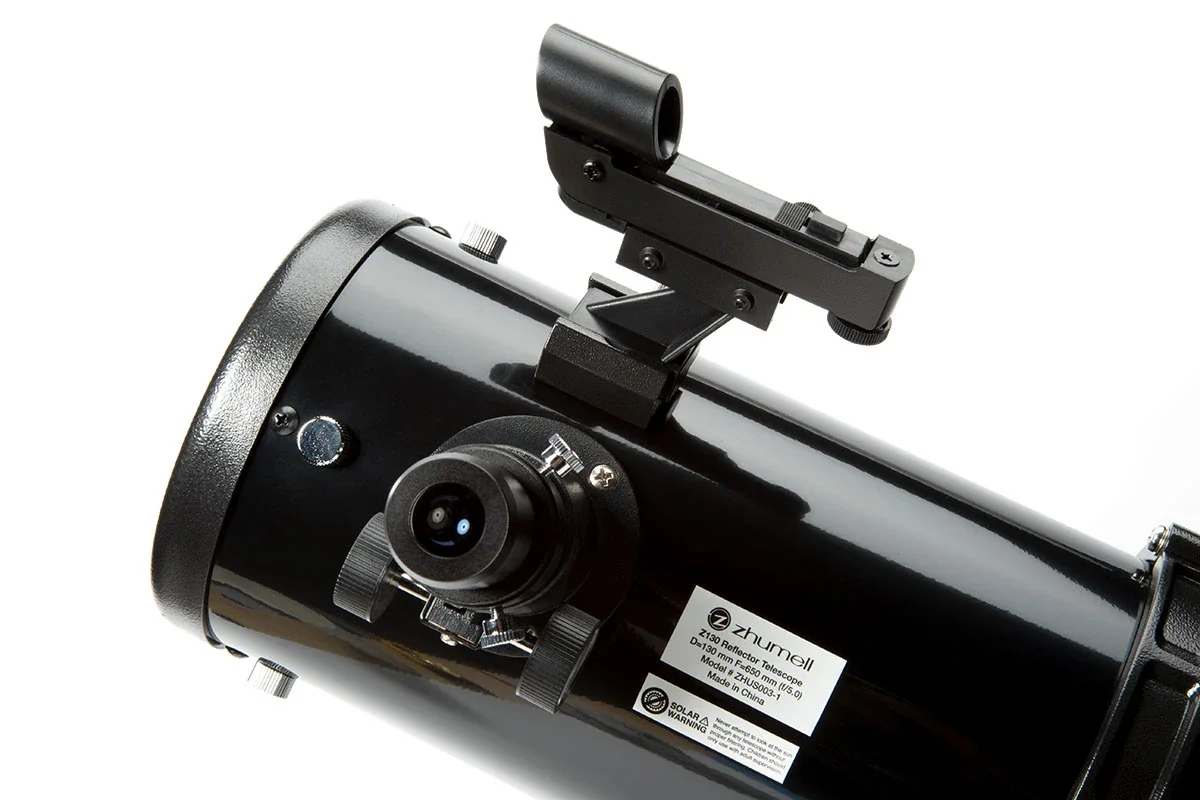
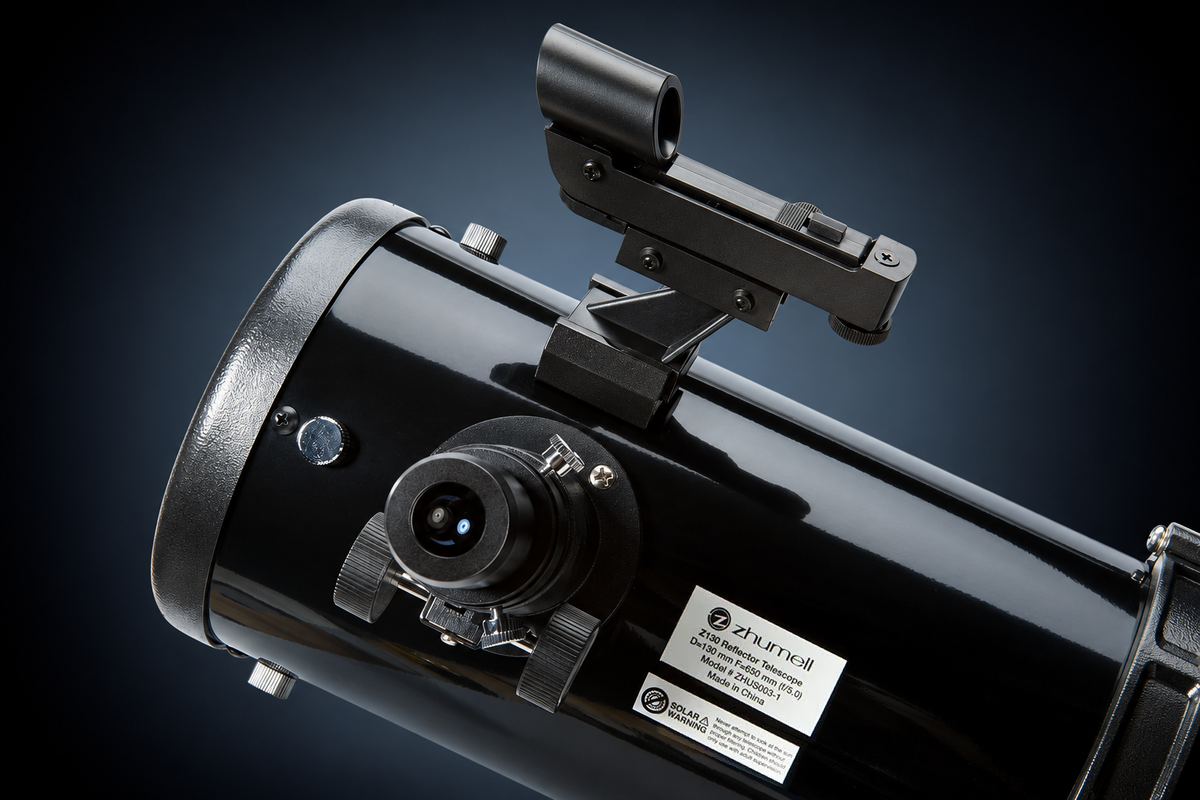
Re-frame review cover images and zoom framed covers in the review header
Covers re-framed as 1600 x 1600 squares are detected at build time and shown
zoomed in so the telescope fills the photo area. Also gives several reviews
their own thumbnails and switches the Zhumell Z130 review to the dark theme.

diff --git a/src/styles/reviewHero.css b/src/styles/reviewHero.css
@@ -16,17 +16,17 @@ body:has(.review-hero) {
   position: relative;
   z-index: 5; /* keeps the price menu above the article when it drops below the band */
   isolation: isolate;
-  /* clip sideways only: the photo's glow must not widen the page, but the
-     price menu still needs to drop below the band */
+  /* clip sideways only: nothing in the band may widen the page, but the
+     price menu still needs to drop below it */
   overflow-x: clip;
   width: 100vw;
   margin-left: calc(50% - 50vw);
   margin-right: calc(50% - 50vw);
   margin-bottom: 2.5rem;
-  min-height: min(82vh, 780px);
+  min-height: min(90vh, 920px);
   padding: clamp(2rem, 6vh, 4.5rem) clamp(1.25rem, 6vw, 6rem);
   display: grid;
-  grid-template-columns: minmax(0, 1fr) minmax(0, 1.15fr);
+  grid-template-columns: minmax(0, 1fr) minmax(0, 1.5fr);
   align-items: center;
   gap: clamp(1.5rem, 4vw, 4rem);
   background: var(--hero-page);
@@ -65,47 +65,22 @@ body:has(.review-hero) {
   min-width: 0;
 }
 
-/* A blurred, enlarged copy right behind the photo, so the photo's own edge
-   colours carry on outward and its faded edges never show as a box. */
-.review-hero-glow {
-  position: absolute;
-  left: 50%;
-  top: 50%;
-  width: auto;
-  height: auto;
-  max-width: 100%;
-  max-height: min(72vh, 660px);
-  transform: translate(-50%, -50%) scale(1.45);
-  filter: blur(42px) saturate(1.1);
-  opacity: 0.95;
-  pointer-events: none;
-}
 
-/* The box matches the rendered photo, so the fade lands on its real edges.
-   Only a thin band along each edge fades (two linear masks intersected),
-   so a telescope reaching into the photo's corners stays sharp; the
-   backdrop is the same photo blurred, so the faded edge melts into it. */
+/* The box matches the rendered photo, so the fade lands on its real edges. */
 .review-hero-image {
   position: relative;
   display: block;
   width: auto;
   height: auto;
   max-width: 100%;
-  max-height: min(72vh, 660px);
-  --edge: 12%;
-  -webkit-mask-image:
-    linear-gradient(to right, transparent 0, #000 var(--edge), #000 calc(100% - var(--edge)), transparent 100%),
-    linear-gradient(to bottom, transparent 0, #000 var(--edge), #000 calc(100% - var(--edge)), transparent 100%);
-  -webkit-mask-composite: source-in;
-  mask-image:
-    linear-gradient(to right, transparent 0, #000 var(--edge), #000 calc(100% - var(--edge)), transparent 100%),
-    linear-gradient(to bottom, transparent 0, #000 var(--edge), #000 calc(100% - var(--edge)), transparent 100%);
-  mask-composite: intersect;
+  max-height: min(88vh, 860px);
+  -webkit-mask-image: radial-gradient(closest-side, #000 42%, rgba(0, 0, 0, 0.55) 72%, transparent 100%);
+  mask-image: radial-gradient(closest-side, #000 42%, rgba(0, 0, 0, 0.55) 72%, transparent 100%);
 }
 
 .review-hero-content {
   position: relative;
-  z-index: 2; /* above the photo's glow, which can spread under the text */
+  z-index: 2; /* text always sits above the photo */
   grid-column: 1;
   grid-row: 1;
   max-width: 560px;
@@ -337,6 +312,39 @@ body:has(.review-hero) {
   scroll-margin-top: calc(var(--header-height, 52px) + 1.5rem);
 }
 
+/* ---- re-framed covers: zoomed into a window ----
+   Re-framed covers are square, with the telescope at about 45% of the frame
+   and generous gradient padding. Shown whole they'd look small, so they sit
+   in a square window, zoomed 1.55x: the telescope fills about 70% of the
+   window, the full-resolution image keeps its detail, and only the window's
+   outer edge fades into the backdrop (never the telescope). */
+.review-hero--framed .review-hero-media {
+  justify-self: center;
+  width: min(100%, 84vh, 860px);
+  aspect-ratio: 1 / 1;
+  overflow: hidden;
+  --edge: 14%;
+  -webkit-mask-image:
+    linear-gradient(to right, transparent 0, #000 var(--edge), #000 calc(100% - var(--edge)), transparent 100%),
+    linear-gradient(to bottom, transparent 0, #000 var(--edge), #000 calc(100% - var(--edge)), transparent 100%);
+  -webkit-mask-composite: source-in;
+  mask-image:
+    linear-gradient(to right, transparent 0, #000 var(--edge), #000 calc(100% - var(--edge)), transparent 100%),
+    linear-gradient(to bottom, transparent 0, #000 var(--edge), #000 calc(100% - var(--edge)), transparent 100%);
+  mask-composite: intersect;
+}
+
+.review-hero--framed .review-hero-image {
+  width: 100%;
+  height: 100%;
+  max-width: none;
+  max-height: none;
+  object-fit: cover;
+  transform: scale(1.55);
+  -webkit-mask-image: none;
+  mask-image: none;
+}
+
 /* ---- phones and narrow tablets: photo on top, text below on a fade ---- */
 @media (max-width: 760px) {
   .review-hero {
@@ -349,11 +357,17 @@ body:has(.review-hero) {
   .review-hero-media {
     grid-column: 1;
     grid-row: 1;
+    /* use the full screen width: run into the band's side padding */
+    margin: 0 -1.25rem;
   }
 
-  .review-hero-image,
-  .review-hero-glow {
-    max-height: 46vh;
+  .review-hero-image {
+    max-height: 58vh;
+  }
+
+  .review-hero--framed .review-hero-media {
+    width: min(100vw, 62vh);
+    justify-self: center;
   }
 
   .review-hero-content {
@@ -400,10 +414,6 @@ body:has(.review-light) .review-hero-image {
   -webkit-mask-image: none;
   mask-image: none;
   mix-blend-mode: multiply;
-}
-
-body:has(.review-light) .review-hero-glow {
-  display: none;
 }
 
 body:has(.review-light) .review-hero-scrim {

diff --git a/src/utils/coverFraming.js b/src/utils/coverFraming.js
@@ -1,0 +1,37 @@
+// Tells re-framed cover images apart from older ones, at build time.
+//
+// Re-framed covers (see TTB/telescope-image-gradients.txt) are exactly
+// 1600 x 1600, with the telescope centred at about 45% of the frame on a
+// gradient. The review header shows those zoomed in, so the telescope fills
+// the photo area instead of floating small in its padding. Older covers come
+// in other sizes and keep the regular header styling.
+//
+// A review can force either look with `coverFraming: framed` or
+// `coverFraming: classic` in its frontmatter.
+
+import sharp from 'sharp';
+import path from 'node:path';
+import fs from 'node:fs';
+
+const FRAMED_SIZE = 1600;
+const cache = new Map();
+
+/** Returns 'framed' for a re-framed cover, else 'classic'. */
+export async function coverFraming(coverPath, override) {
+  if (override === 'framed' || override === 'classic') return override;
+  if (!coverPath) return 'classic';
+  if (cache.has(coverPath)) return cache.get(coverPath);
+
+  let result = 'classic';
+  try {
+    const file = path.join(process.cwd(), 'public', coverPath);
+    if (fs.existsSync(file)) {
+      const { width, height } = await sharp(file).metadata();
+      if (width === FRAMED_SIZE && height === FRAMED_SIZE) result = 'framed';
+    }
+  } catch {
+    result = 'classic';
+  }
+  cache.set(coverPath, result);
+  return result;
+}
